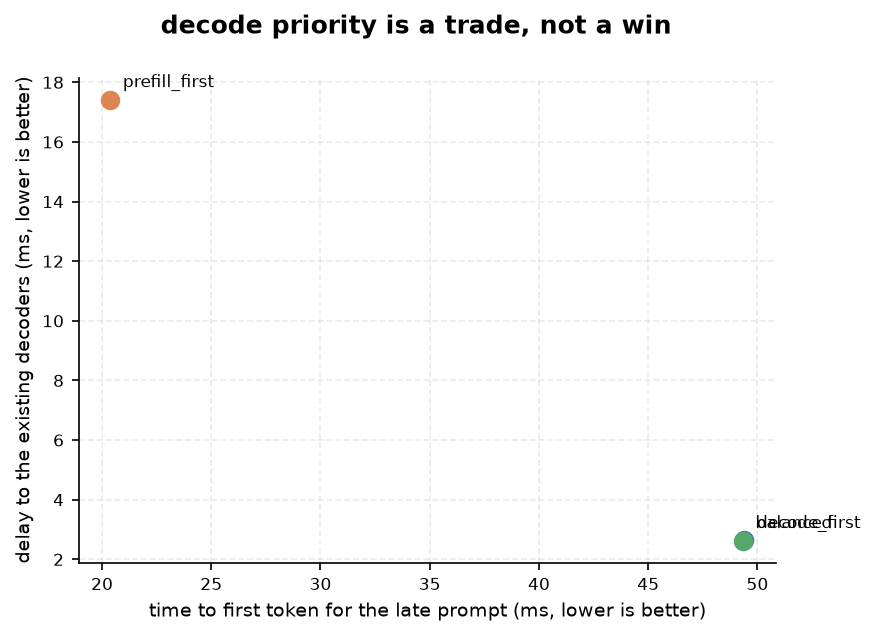
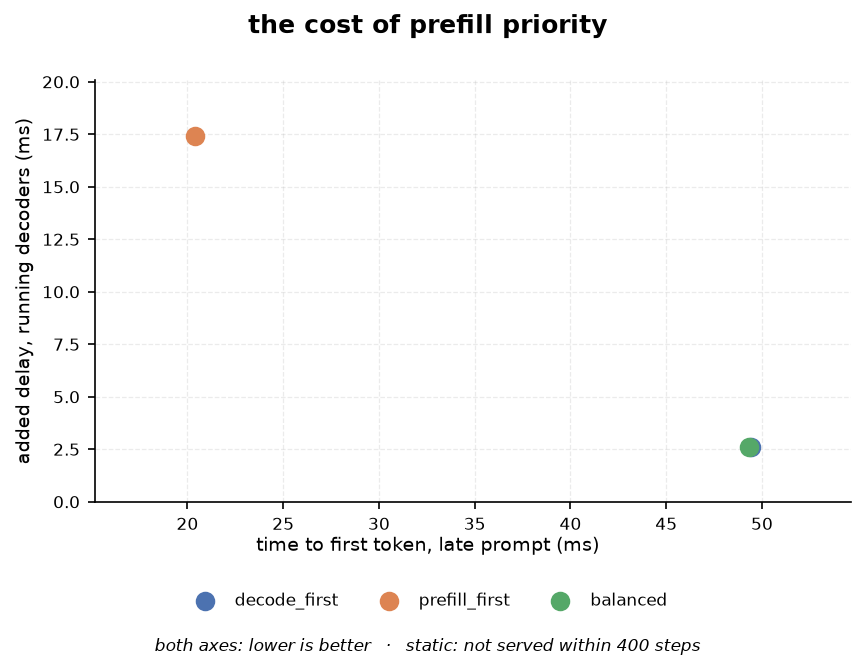
docs: unclutter the policy trade-off figure, and trim more prose
The scatter put three configurations' names on top of each other, because every
label used the same fixed 6-point offset. Naming them beside the markers was the
wrong idea at these coordinate ranges: prefill_first sits alone in one corner
and decode_first and balanced are 0.1 ms apart in the other. Names live in a
legend under the plot now, so nothing can collide at any coordinate range.

While there: the title said "decode priority is a trade, not a win", which is
the README's argument rather than the figure's finding. It reads "the cost of
prefill priority" and says what the picture shows. Axis labels lost their
repeated "lower is better" suffix, which is one italic caption line now that
also names the policy with no point on the plot.

Layout is explicit figure bands instead of subplots_adjust guesses, so the
x-label, legend and caption cannot overlap. plot_scatter gains a caption.

README trimmed alongside: 93 words off the experiment commentary, and section 8's
heading follows the new title. No numbers, tables or other figures changed.

155 checks pass, ruff clean, and regenerating all 14 figures reproduces the same
numbers with policy_tradeoff.png the only changed file.

diff --git a/miniserve/visualizations/plots.py b/miniserve/visualizations/plots.py
@@ -520,22 +520,48 @@ def plot_scatter(
     xlabel: str,
     ylabel: str,
     title: str = "",
+    caption: str = "",
 ) -> Path:
-    """A trade-off plane: one labelled point per configuration."""
+    """A trade-off plane: one labelled point per configuration.
+
+    Names go in a legend rather than next to the markers: at these coordinate
+    ranges several configurations land in the same corner, and inline text has
+    nowhere to go that is not on top of something.
+    """
     plt = _pyplot()
     if not points:
         raise ValueError("nothing to plot: no points")
 
-    fig, ax = plt.subplots(figsize=(6.0, 4.2))
+    fig, ax = plt.subplots(figsize=(6.0, 4.4))
     for index, point in enumerate(points):
-        ax.scatter(point.x, point.y, s=70, color=PALETTE[index % len(PALETTE)], zorder=3)
-        ax.annotate(
-            point.label,
-            xy=(point.x, point.y),
-            xytext=(6, 6),
-            textcoords="offset points",
-            fontsize=8,
+        ax.scatter(
+            point.x,
+            point.y,
+            s=70,
+            color=PALETTE[index % len(PALETTE)],
+            label=point.label,
+            zorder=3,
         )
-    ax.set_xlabel(xlabel)
+    for values, setter in (
+        ([point.x for point in points], ax.set_xlim),
+        ([point.y for point in points], ax.set_ylim),
+    ):
+        low, high = min(values), max(values)
+        pad = (high - low) * 0.18 if high > low else (abs(high) * 0.2 or 1.0)
+        setter(low - pad, high + pad)
+    ax.set_xlabel("")
     ax.set_ylabel(ylabel)
+    ax.grid(True, alpha=0.25, linewidth=0.6)
+    ax.set_axisbelow(True)
+    fig.subplots_adjust(left=0.13, right=0.97, top=0.88, bottom=0.24)
+    fig.supxlabel(xlabel, fontsize=9, y=0.16)
+    fig.legend(
+        loc="lower center",
+        bbox_to_anchor=(0.5, 0.055),
+        ncol=min(4, len(points)),
+        frameon=False,
+        fontsize=8,
+    )
+    if caption:
+        fig.text(0.5, 0.015, caption, ha="center", fontsize=8, style="italic")
     return _save(plt, fig, path, title=title)

diff --git a/scripts/make_figures.py b/scripts/make_figures.py
@@ -606,9 +606,11 @@ def figure_policies(out: Path) -> None:
     plot_scatter(
         [Point(label, late_ttfts[label], stalls[label]) for label in served],
         out / "policy_tradeoff.png",
-        xlabel="time to first token for the late prompt (ms, lower is better)",
-        ylabel="delay to the existing decoders (ms, lower is better)",
-        title="decode priority is a trade, not a win",
+        xlabel="time to first token, late prompt (ms)",
+        ylabel="added delay, running decoders (ms)",
+        title="the cost of prefill priority",
+        caption="both axes: lower is better"
+        + (f"   ·   {', '.join(unserved)}: not served within 400 steps" if unserved else ""),
     )
 
     print("\n=== fairness: worst wait for a first token (40 requests, budget 8) ===")

diff --git a/README.md b/README.md
@@ -295,7 +295,7 @@ more than prefill priority wins back. `balanced` matches `fcfs` because with onl
 its 16-token prefill floor is never binding. Experiment 8 isolates the mechanism instead of
 averaging it away.
 
-### 8. Decode priority is a trade, not a win
+### 8. Prefill against decode priority
 
 ![policy trade-off](figures/policy_tradeoff.png)
 
@@ -585,6 +585,6 @@ figures/        generated by scripts/make_figures.py, committed for the README
 
 ---
 
-*Every number here came from a run on this machine. `TESTING.md` is the companion hands-on
+*Every number here came from a run on my local machine. `TESTING.md` is the companion hands-on
 guide: how to run each experiment, what to expect, which invariants to poke at, and how to read
 the code.*
